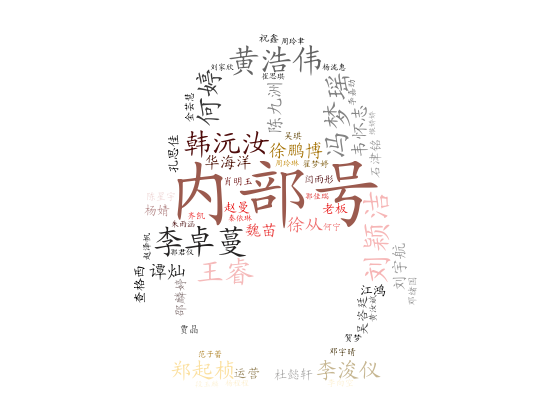
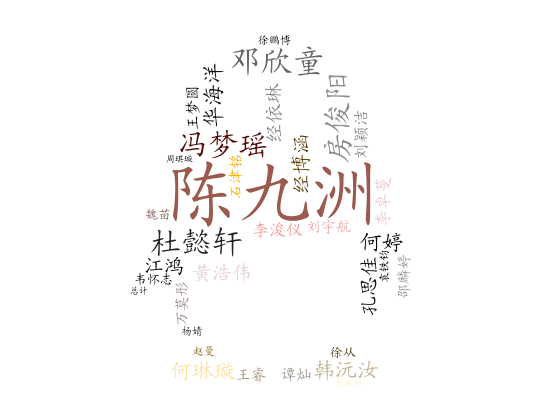
更新词云

Changed region(s): [[0.2164, 0.0872, 0.7727, 0.8136], [0.3091, 0.8136, 0.68, 0.9298]]

diff --git a/img_wordcloud.py b/img_wordcloud.py
@@ -4,9 +4,10 @@ import matplotlib.pyplot as plt
 import numpy as np
 import pandas as pd
 
-df = pd.read_excel('work.xls')
+df = pd.read_excel('/Users/tylor/OneDrive/TencentTencentTencent/ppt/数据分析动态图表.xlsx',sheet_name='wordcloud',skiprows = [1,2,3,4])
+
 print(df)
-new_worlds = " ".join(df['真实姓名'])
+new_worlds = " ".join(df['第1题'])
 # 参照图片
 coloring = np.array(Image.open("./img/lz1.jpg"))
 
